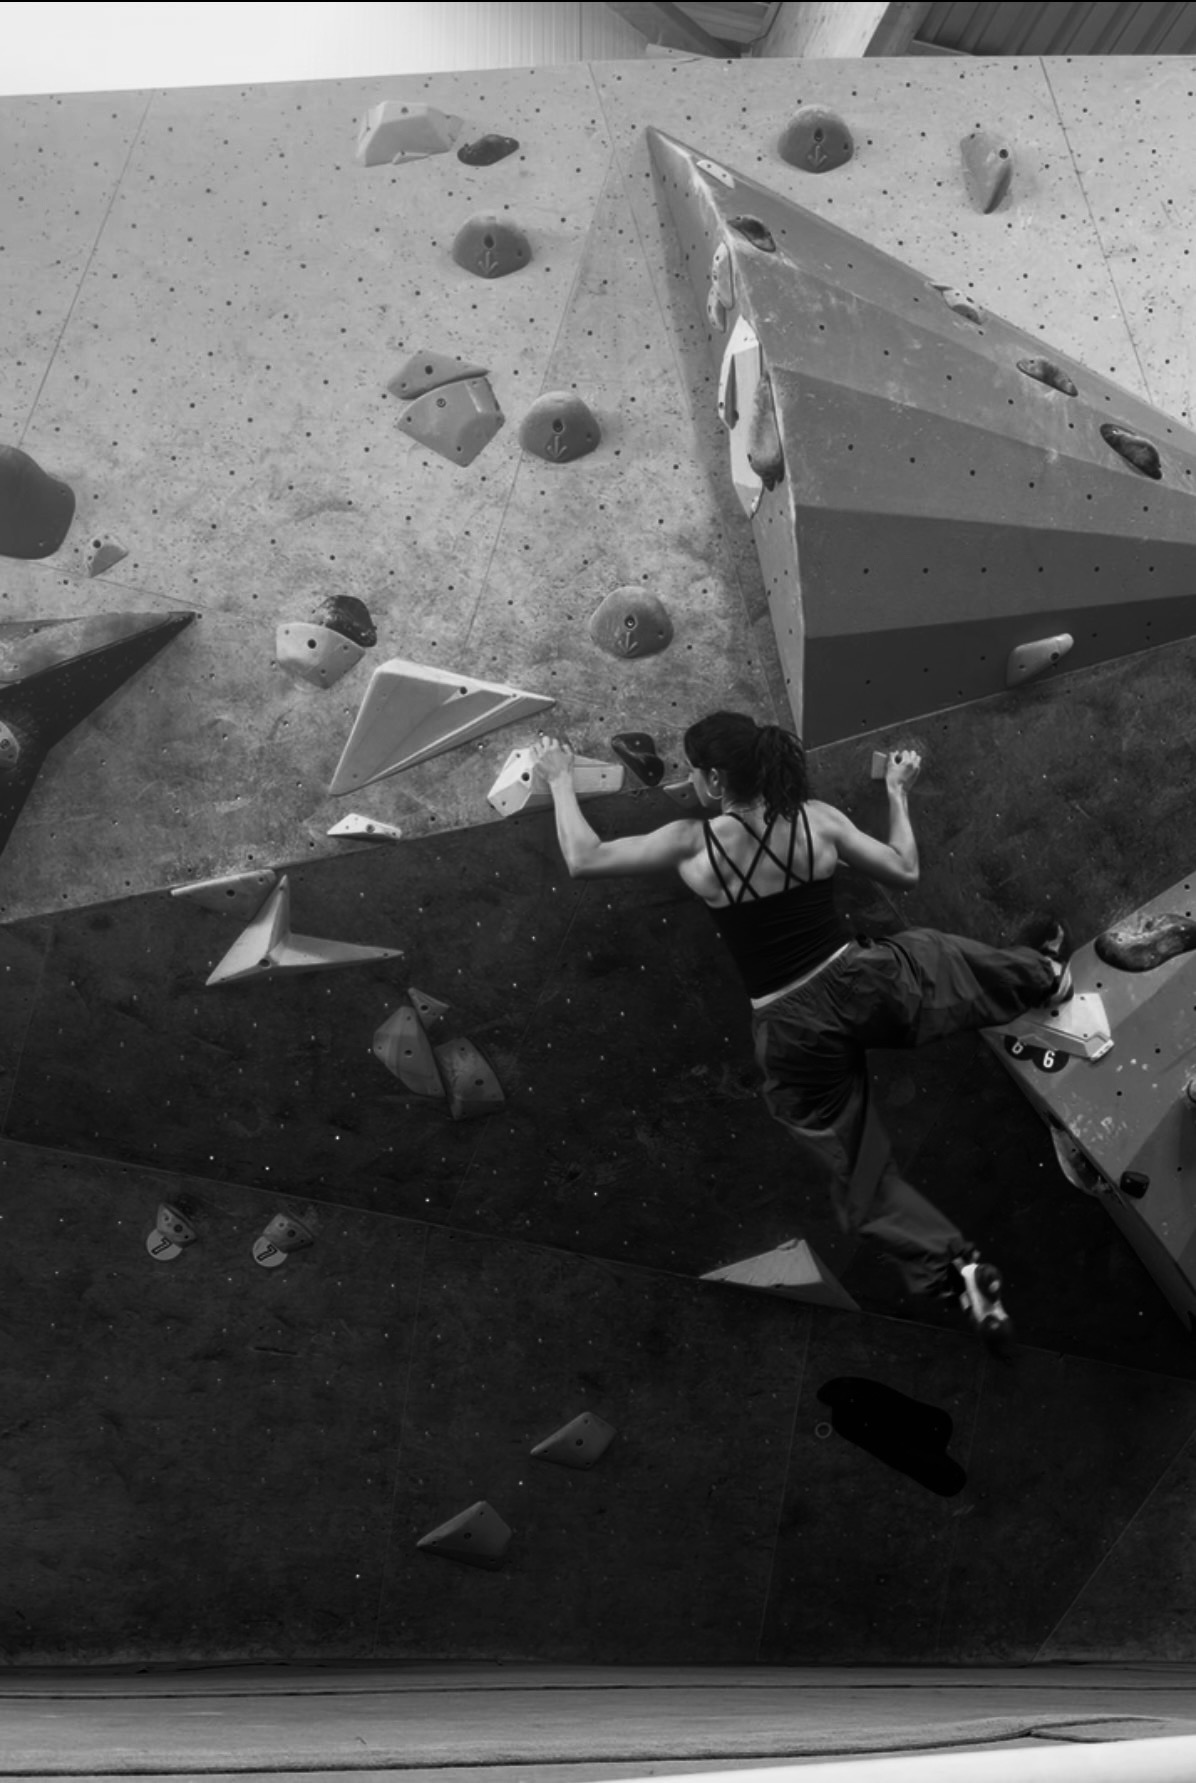
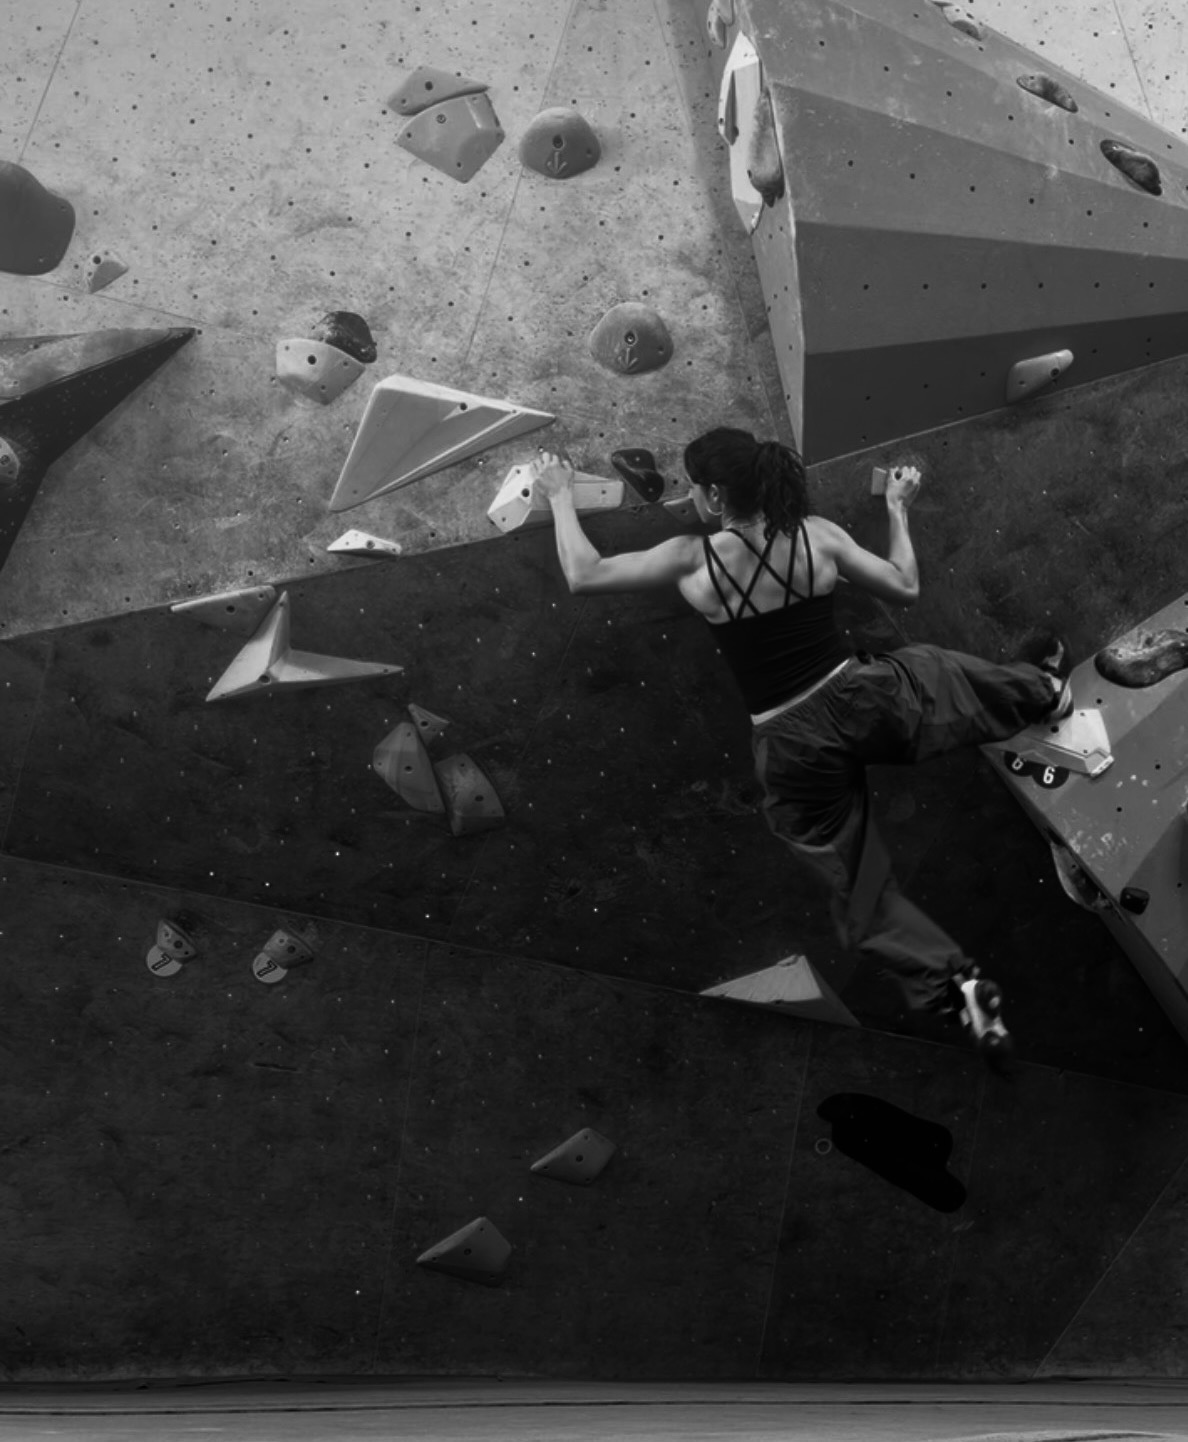
refactor: consolidate HTML structure and enhance CSS styling for navigation and footer

diff --git a/static/style.css b/static/style.css
@@ -14,18 +14,21 @@ body {
 nav {
   display: flex;
   align-items: center;
-  justify-content: center;
-  gap: 5rem;
-  width: fit-content;
-  margin: 2rem auto;
-  padding: .4rem 3rem;
-  background: #ddd;
+  justify-content: space-between;
+  padding: 0.4rem 3rem;
+  background: #183920;
   border-radius: 999px;
+  width: 75vw;
+  position: relative;
+  left: 50%;
+  transform: translateX(-50%);
+  margin-top: 2rem;
+  margin-bottom: 2rem;
 }
 
 nav a {
   text-decoration: none;
-  color: #183920;
+  color: #ddd;
   font-family: "redactions", system-ui, sans-serif;
   font-size: 1.1rem;
 }
@@ -51,6 +54,9 @@ footer {
     padding: 2rem 0;
     border-top: 1px solid #ddd;
     background: #183920;
+    width: 100vw;
+    margin-left: calc(-50vw + 50%);
+    margin-right: calc(-50vw + 50%);
 }
 footer p {
   font-size: 0.85rem;
@@ -86,7 +92,7 @@ p2 {
   gap: 1.5rem;
 }
 
-.explore-button{
+/*.explore-button{
     display: flex;
     justify-content: center;
     align-items: center;
@@ -100,23 +106,121 @@ p2 {
     font-size: 1.2rem;
     color: #183920;
     text-decoration: none;
+}*/
+
+.explore-button-wrap {
+  display: flex;
+  justify-content: center;
+  margin: 2rem 0;
 }
 
-.image-overlay-wrap {
+.explore-button {
+  all: unset;
+  width: 160px;
+  height: 30px;
+  font-size: 16px;
+  background: transparent;
+  border: none;
+  position: relative;
+  color: #c2c6c3;
+  cursor: pointer;
+  z-index: 1;
+  padding: 10px 20px;
+  display: flex;
+  align-items: center;
+  justify-content: center;
+  white-space: nowrap;
+  user-select: none;
+  -webkit-user-select: none;
+  touch-action: manipulation;
+}
+
+.explore-button::after,
+.explore-button::before {
+  content: '';
+  position: absolute;
+  bottom: 0;
+  right: 0;
+  z-index: -99999;
+  transition: all .4s;
+}
+.explore-button::before {
+  transform: translate(0%, 0%);
+  width: 100%;
+  height: 100%;
+  background: #183920;
+  border-radius: 10px;
+}
+.explore-button::after {
+  transform: translate(10px, 10px);
+  width: 35px;
+  height: 35px;
+  background: #ffffff30;
+  backdrop-filter: blur(10px);
+  -webkit-backdrop-filter: blur(10px);
+  border-radius: 50px;
+}
+.explore-button:hover::before {
+  transform: translate(5%, 20%);
+  width: 110%;
+  height: 110%;
+}
+.explore-button:hover::after {
+  border-radius: 10px;
+  transform: translate(0, 0);
+  width: 100%;
+  height: 100%;
+}
+.explore-button:active::after {
+  transition: 0s;
+  transform: translate(0, 5%);
+}
+
+/*.me_climbing {
+  display: inline-block;
+  max-width: 300px;
+  border-radius: 25px 80px 25px 80px;
+  flex-shrink: 0;
+}
+
+.me_image {
+  display: inline-block;
+  max-width: 300px;
+  border-radius: 25px 80px 25px 80px;
+  flex-shrink: 0;
+}*/
+
+.photo-overlap {
   position: relative;
   width: fit-content;
+  margin: 3rem 0 10rem;
+  top: -30px;
+  left: -50px;
 }
 
 .me_climbing {
   display: block;
-  width: 300px;
+  width: 200px;
   height: auto;
+  border-radius: 8px;
 }
 
 .me_image {
   position: absolute;
-  bottom: -60px;
-  right: -60px;
+  bottom: -120px;
+  left: -120px;
   width: 200px;
   height: auto;
+  border-radius: 8px;
+  box-shadow: 0 8px 20px rgba(0, 0, 0, 0.25);
+}
+
+.text-column {
+  display: block;
+  flex: 1;
+}
+
+.text-column p1 {
+  display: block;
+  margin-bottom: 1rem;
 }

diff --git a/templates/about.html b/templates/about.html
@@ -2,11 +2,17 @@
    {% block title %}About | ZZ COLLECTIVE {% endblock %}
    {% block content %}
     <h2>About</h2>
-    <p1>Hey! </p1>
-    <p1>I am a college student with a home gym dream and a financing problem: hold prices skyrocket past hundreds just for basic sets. So, I put my years of woodworking classes to test, dug into my favorite piles of scrap wood in a friends garage, and emerged with ZZ Collective.</p1>
-    <p1>My hope is to provide my communities with low-cost holds---$5-$7 a piece--to support visions bigger than my own. We are currently in the process of fabricating for our first inventory stock. Until then, sign up for our email list, follow us on Instagram, and hold tight until drop-day!</p1>
-    <div class="overlay-wrap">
-      <img src="{{ url_for('static', filename='images/me_climbing.jpg') }}" alt="Founder climbing" class="me_climbing">
-      <img src="{{ url_for('static', filename='images/me_image.jpg') }}" alt="Founder profile image" class="me_image">
+    <div class="side-by-side">
+      <div class="text-column">
+      <p1>Hey! </p1>
+      <p1>I am a college student with a home gym dream and a financing problem: hold prices skyrocket past hundreds just for basic sets. So, I put my years of woodworking classes to test, dug into my favorite piles of scrap wood in a friends garage, and emerged with ZZ Collective.</p1>
+      <p1>My hope is to provide my communities with low-cost holds---$5-$7 a piece--to support visions bigger than my own. We are currently in the process of fabricating for our first inventory stock. Until then, sign up for our email list, follow us on Instagram, and hold tight until drop-day!</p1>
+      <p1>Sincerely,<br>Lila Gizzie, Founder</p1>
+    </div>
+     
+      <div class="photo-overlap">
+       <img src="{{ url_for('static', filename='images/me_climbing.jpeg') }}" alt="Founder climbing" class="me_climbing">
+        <img src="{{ url_for('static', filename='images/me_image.jpeg') }}" alt="Founder profile image" class="me_image">
+      </div>
     </div>
      {% endblock %}

diff --git a/templates/home.html b/templates/home.html
@@ -3,8 +3,10 @@
    {% block content %}
      <h1>ZZ Collective</h1>
     <div class="side-by-side"> 
-     <p2>Wooden climbing holds with fine sanding, finer price.</p2>
+     <p2>Wooden climbing holds with fine sanding and a finer price.</p2>
      <img src="{{url_for('static', filename='images/bwholds.jpeg')}}" alt="Description of image" class="bw-image">
     </div>
-    <a href="{{url_for ('products')}}" class="explore-button">explore our holds</a>
+    <div class="explore-button-wrap">
+    <a href="{{url_for ('products')}}" class="explore-button" role="button">explore our holds</a>
+    </div>
    {% endblock %}
